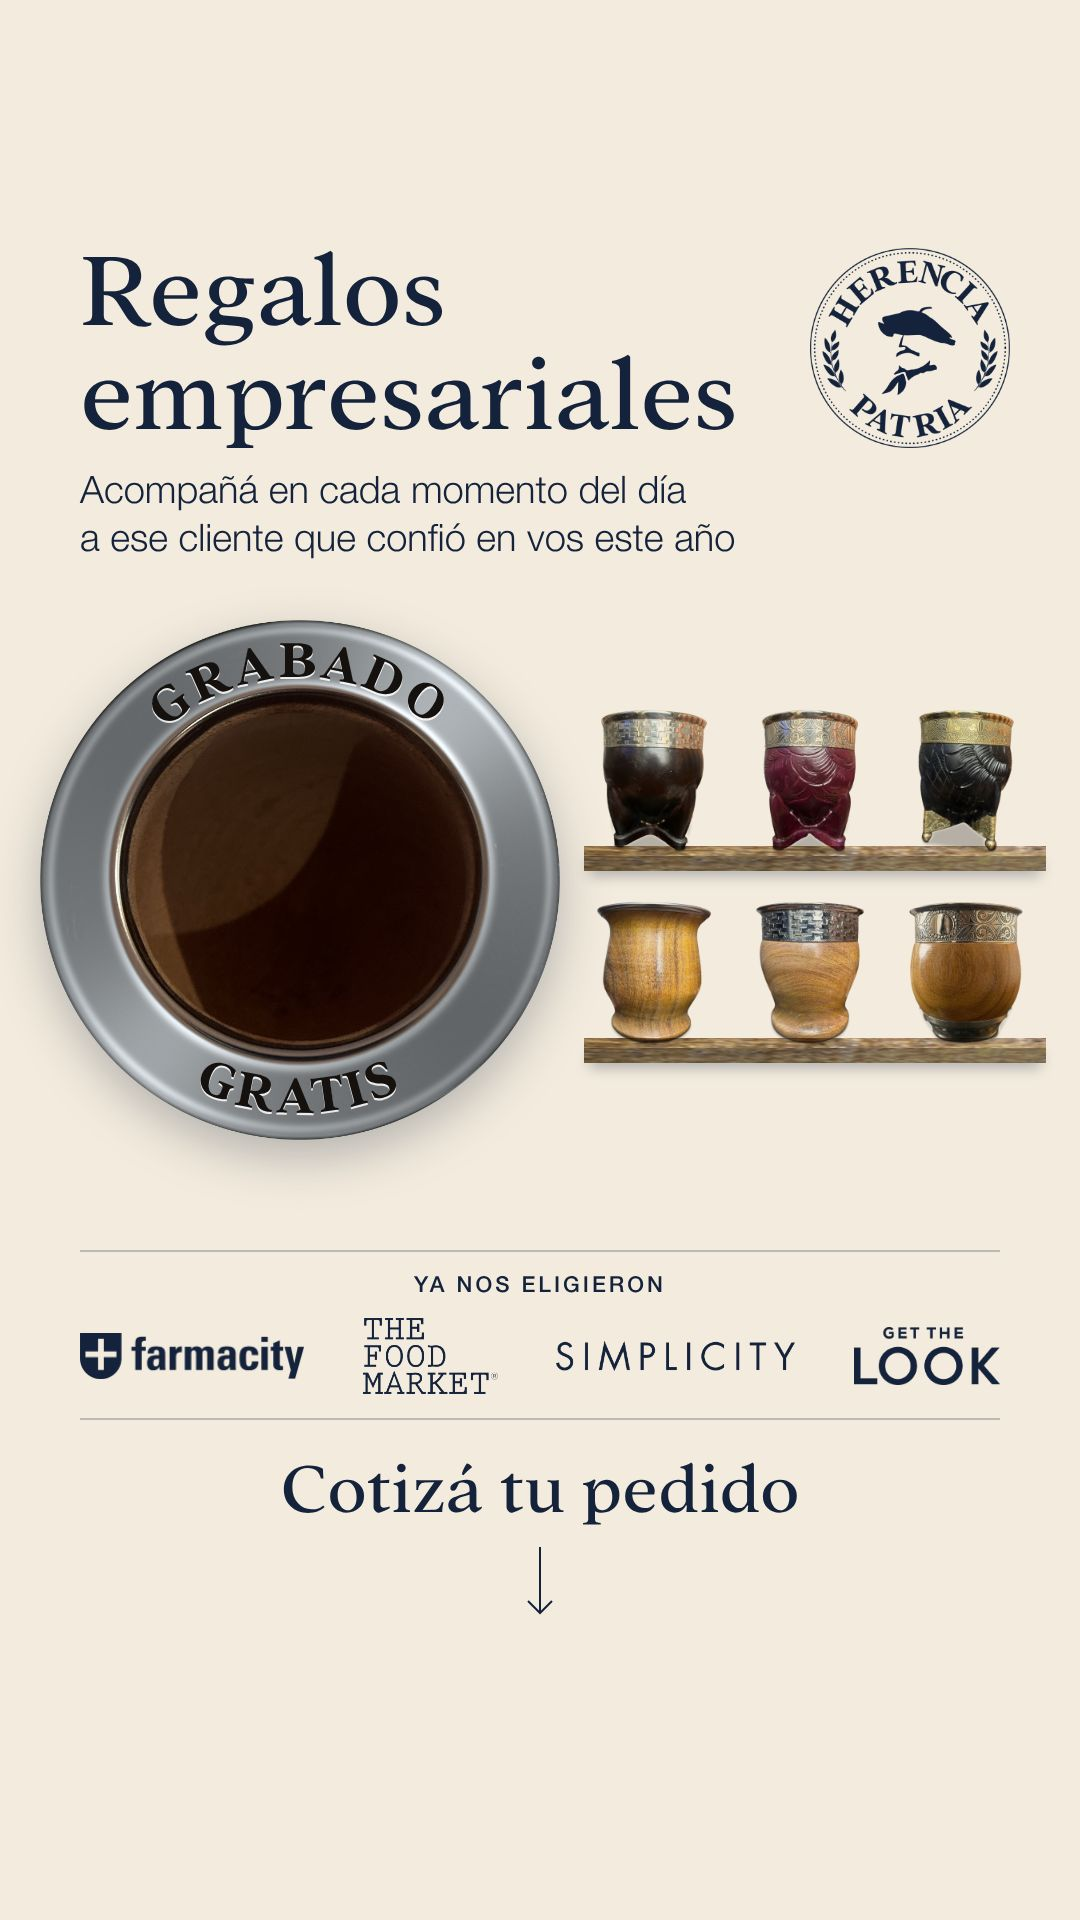
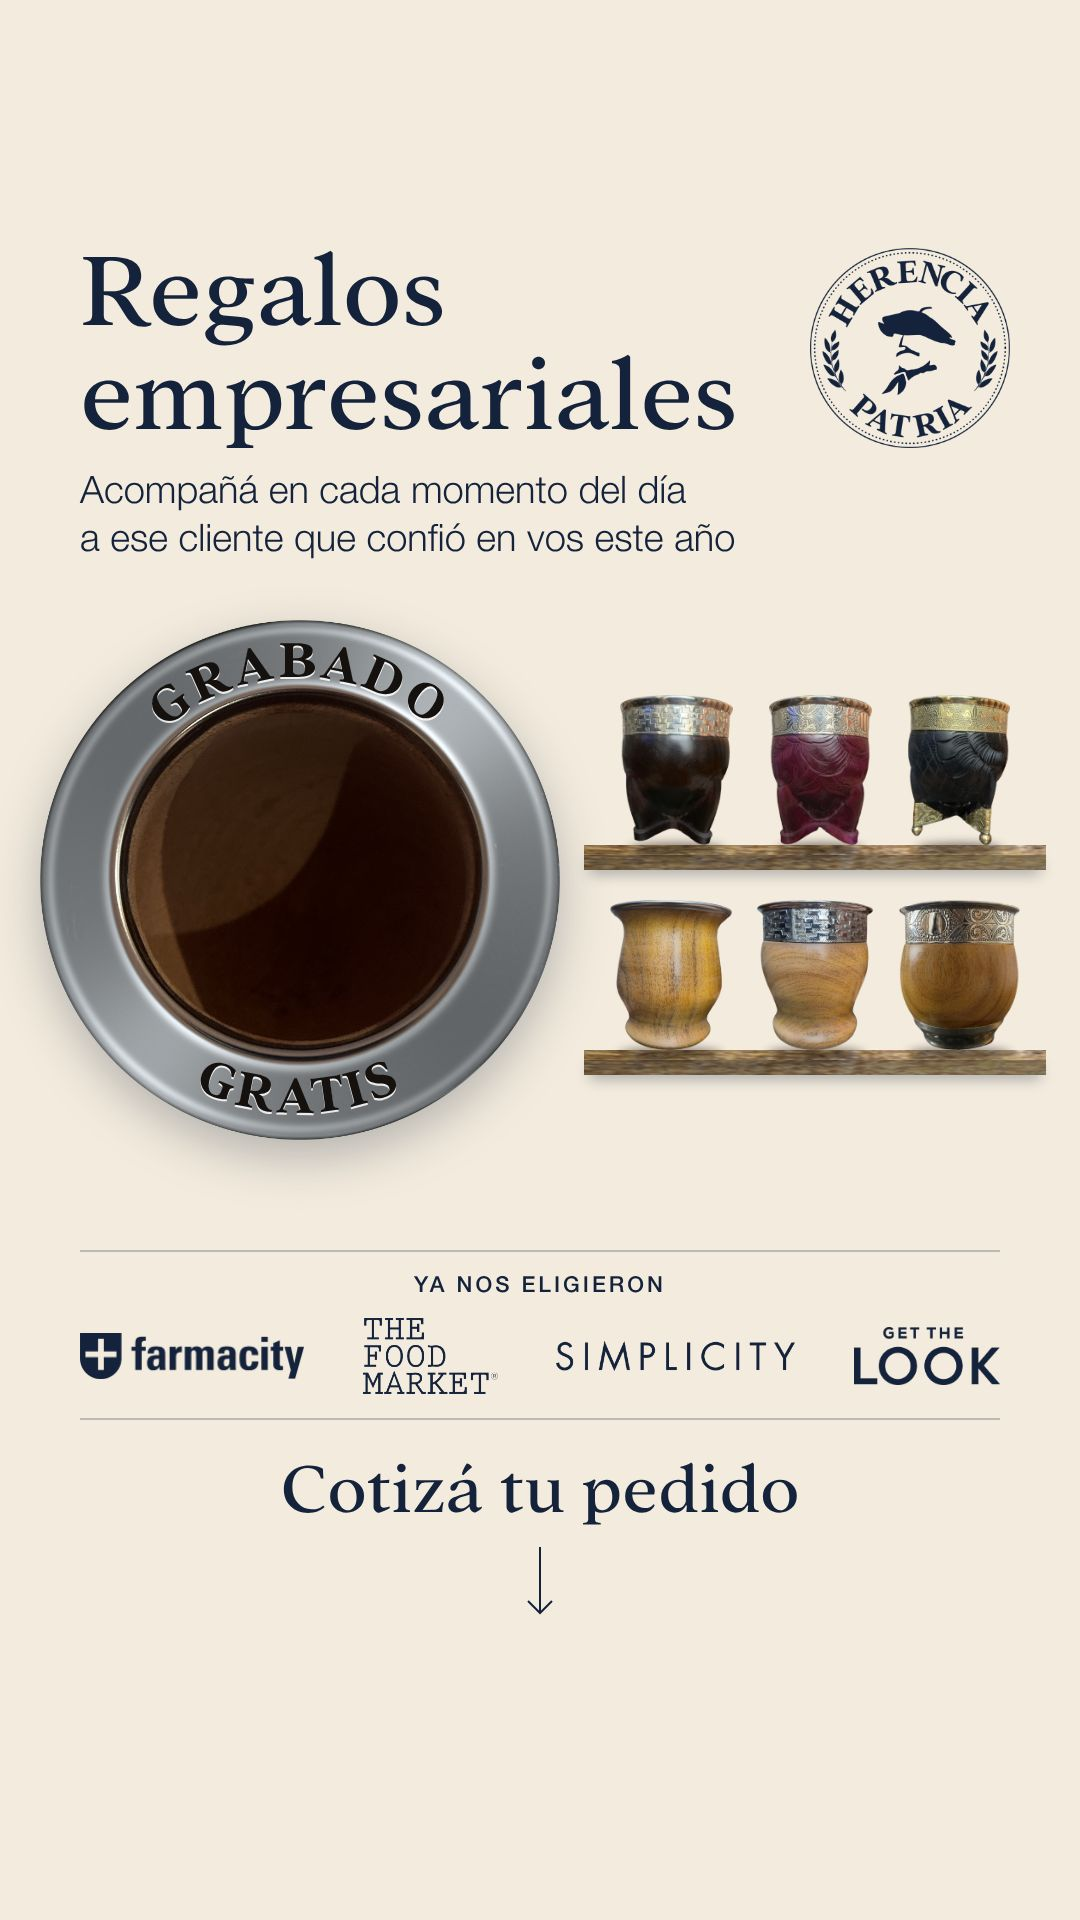
Historia empresarial B: mates recortados apoyados sobre las tablas
tools/recorte_mate.py: mate con fondo transparente y la base en el borde de
abajo; en el cuerpo (no el metal) baja los brillos puntuales y empareja la
luz de un costado al otro. En la historia cada mate se apoya en la cara de
arriba de la tabla, con su sombra de contacto sobre la madera.

Claude-Session: https://claude.ai/code/session_012H3xPSmbqKoMmc2aK7okNH

Changed region(s): [[0.5194, 0.3438, 0.9778, 0.5625]]

diff --git a/src/HerenciaPatria/HistoriaEmpresasLogo.tsx b/src/HerenciaPatria/HistoriaEmpresasLogo.tsx
@@ -45,7 +45,7 @@ export const HistoriaEmpresasLogo: React.FC<{
   const x0 = 40;
   const y0 = 620;
   // Los otros modelos: una grilla chica a la derecha del aro.
-  const chico = 200;
+  const altoChico = 150;
   const xGrilla = 570;
   return (
     <AbsoluteFill
@@ -146,13 +146,11 @@ export const HistoriaEmpresasLogo: React.FC<{
       </svg>
       {/* Los otros modelos: dos filas de tres, cada una sobre una tabla de
           madera fina (la madera real del ranchero, con la veta acostada y el
-          color apagado). La tabla va antes que los mates: con "multiply" la
-          sombra de cada mate cae sobre la madera. */}
+          color apagado). Los mates van recortados (fondo transparente, la
+          base justo en el borde de abajo) y apoyados sobre la cara de arriba
+          de la tabla, cada uno con una sombra de contacto sobre la madera. */}
       {[otros.slice(0, 3), otros.slice(3)].map((fila, i) => {
-        const top = y0 + lado / 2 - chico * 0.98 + i * chico * 0.96;
-        // Donde apoyan los mates: el pie de la foto de producto.
-        const apoyo = top + chico * 0.83;
-        // Una franja de la foto de la madera, recortada a la altura de la cara.
+        const apoyo = y0 + lado / 2 - 30 + i * 205;
         const madera = (alto: number, desde: number, luz: number) => (
           <div style={{ height: alto, overflow: "hidden" }}>
             <Img
@@ -170,7 +168,7 @@ export const HistoriaEmpresasLogo: React.FC<{
             <div
               style={{
                 position: "absolute",
-                top: apoyo - 4,
+                top: apoyo - 5,
                 left: xGrilla + 14,
                 right: 34,
                 boxShadow: "0 10px 14px -6px rgba(20,35,59,0.35)",
@@ -182,24 +180,34 @@ export const HistoriaEmpresasLogo: React.FC<{
             <div
               style={{
                 position: "absolute",
-                top,
-                left: xGrilla,
-                right: 30,
+                top: apoyo - altoChico,
+                left: xGrilla + 14,
+                right: 34,
+                height: altoChico,
                 display: "flex",
-                justifyContent: "center",
+                justifyContent: "space-evenly",
+                alignItems: "flex-end",
               }}
             >
               {fila.map((src) => (
-                <Img
-                  key={src}
-                  src={staticFile(src)}
-                  style={{
-                    width: chico,
-                    height: chico,
-                    margin: `0 -${chico * 0.11}px`,
-                    mixBlendMode: "multiply",
-                  }}
-                />
+                <div key={src} style={{ position: "relative" }}>
+                  <div
+                    style={{
+                      position: "absolute",
+                      left: "8%",
+                      right: "8%",
+                      bottom: -5,
+                      height: 12,
+                      borderRadius: "50%",
+                      background: "rgba(25,18,12,0.55)",
+                      filter: "blur(5px)",
+                    }}
+                  />
+                  <Img
+                    src={staticFile(src)}
+                    style={{ position: "relative", height: altoChico }}
+                  />
+                </div>
               ))}
             </div>
           </div>

diff --git a/src/Root.tsx b/src/Root.tsx
@@ -440,12 +440,12 @@ export const RemotionRoot: React.FC = () => {
           // Arriba los de calabaza (simple, repujado y base bolita); abajo
           // los de algarrobo (ranchero, imperial e imperial con base).
           otros: [
-            "producto/mate-calabaza-simple.jpg",
-            "producto/mate-calabaza-repujado.jpg",
-            "producto/mate-calabaza-base-bolita.jpg",
-            "producto/mate-algarrobo-ranchero.jpg",
-            "producto/mate-algarrobo-imperial.jpg",
-            "producto/mate-algarrobo-blanco.jpg",
+            "recortes/calabaza-simple.png",
+            "recortes/calabaza-repujado.png",
+            "recortes/calabaza-base-bolita.png",
+            "recortes/algarrobo-ranchero.png",
+            "recortes/algarrobo-imperial.png",
+            "recortes/algarrobo-imperial-con-base.png",
           ],
           confianza: "Ya nos eligieron",
           logos: [

diff --git a/tools/recorte_mate.py b/tools/recorte_mate.py
@@ -1,0 +1,95 @@
+"""Mate recortado con fondo transparente, para apoyarlo sobre otra cosa (una
+tabla, un estante) en vez de sobre el piso blanco.
+
+Uso:
+  python recorte_mate.py FOTO MASCARA SALIDA.png CUERPO_Y0 CUERPO_Y1
+
+- MASCARA: recorte del mate (rembg, birefnet-general).
+- CUERPO_Y0..CUERPO_Y1: filas del cuerpo (cuero o madera). El metal (virola,
+  chapas, base) queda fuera y no se toca: ni brillo ni color.
+- En el cuerpo:
+  * se bajan los brillos puntuales (destellos del barniz o del cuero): lo que
+    sobresale de la luz de alrededor se acerca a ella, sin aplanar la forma;
+  * se empareja la luz: la diferencia grande de un costado al otro (la
+    ventana de un lado) se reduce a la mitad.
+- Borde sin halo, recortado al mate y llevado a 700 px de alto, con la base
+  justo en el borde de abajo (para apoyarlo exacto).
+"""
+
+import sys
+
+import cv2
+import numpy as np
+
+ALTO = 700
+
+
+def suave(img, m, sigma):
+    # Desenfoque que sólo promedia dentro del mate (no mezcla el fondo).
+    num = cv2.GaussianBlur(img * m, (0, 0), sigma)
+    den = cv2.GaussianBlur(m, (0, 0), sigma) + 1e-6
+    return num / den
+
+
+def main():
+    src, mask_path, out_path = sys.argv[1:4]
+    y0, y1 = int(sys.argv[4]), int(sys.argv[5])
+    im = cv2.imread(src)
+    h, w = im.shape[:2]
+    m = cv2.imread(mask_path, 0)
+    m = cv2.resize(m, (w, h), interpolation=cv2.INTER_LINEAR)
+    duro = (m > 128).astype(np.uint8)
+    n, lab, st, _ = cv2.connectedComponentsWithStats(duro)
+    duro = (lab == 1 + np.argmax(st[1:, cv2.CC_STAT_AREA])).astype(np.uint8) * 255
+    cont, _ = cv2.findContours(duro, cv2.RETR_EXTERNAL, cv2.CHAIN_APPROX_NONE)
+    lleno = np.zeros_like(duro)
+    cv2.drawContours(lleno, cont, -1, 255, -1)
+    interior = cv2.erode(lleno, np.ones((3, 3), np.uint8))
+    alfa = cv2.GaussianBlur(interior, (0, 0), 1.0).astype(np.float32) / 255
+
+    # Cuerpo: dentro del mate y entre las filas dadas, con transición suave.
+    fila = np.zeros(h, np.float32)
+    fila[y0:y1] = 1
+    fila = np.convolve(fila, np.ones(21) / 21, "same")
+    adentro = cv2.erode(lleno, np.ones((7, 7), np.uint8)).astype(np.float32) / 255
+    cuerpo = adentro * fila[:, None]
+
+    lab_ = cv2.cvtColor(im, cv2.COLOR_BGR2LAB).astype(np.float32)
+    L, A, B = lab_[..., 0], lab_[..., 1], lab_[..., 2]
+    mm = lleno.astype(np.float32) / 255
+    ancho = st[1:, cv2.CC_STAT_WIDTH].max()
+
+    # Brillos puntuales: lo que sobresale de la luz cercana.
+    cerca = suave(L, mm, ancho * 0.03)
+    exceso = L - cerca
+    peso = np.clip((exceso - 6) / 18, 0, 1) * cuerpo
+    peso = cv2.GaussianBlur(peso, (0, 0), 1.5)
+    L = L - exceso * peso * 0.85
+    A = A * (1 - peso) + suave(A, mm, ancho * 0.03) * peso
+    B = B * (1 - peso) + suave(B, mm, ancho * 0.03) * peso
+
+    # Luz pareja: la variación grande (un costado más iluminado) a la mitad.
+    lejos = suave(L, mm * cuerpo + 1e-3, ancho * 0.18)
+    media = (lejos * cuerpo).sum() / max(cuerpo.sum(), 1)
+    L = L - (lejos - media) * 0.5 * cuerpo
+
+    out = cv2.cvtColor(
+        np.clip(np.dstack([L, A, B]), 0, 255).astype(np.uint8), cv2.COLOR_LAB2BGR
+    )
+
+    # Borde sin halo: en la franja del borde, el color del interior cercano.
+    adentro9 = cv2.erode(lleno, np.ones((9, 9), np.uint8))
+    franja = (interior > 0) & (adentro9 == 0)
+    relleno = cv2.inpaint(out, franja.astype(np.uint8) * 255, 3, cv2.INPAINT_TELEA)
+    out[franja] = (out[franja] * 0.4 + relleno[franja] * 0.6).astype(np.uint8)
+
+    ys, xs = np.where(alfa > 0.05)
+    c0, c1, r0, r1 = xs.min(), xs.max() + 1, ys.min(), ys.max() + 1
+    rgba = np.dstack([out, (alfa * 255).astype(np.uint8)])[r0:r1, c0:c1]
+    esc = ALTO / rgba.shape[0]
+    rgba = cv2.resize(rgba, (round(rgba.shape[1] * esc), ALTO), interpolation=cv2.INTER_AREA)
+    cv2.imwrite(out_path, rgba)
+
+
+if __name__ == "__main__":
+    main()
